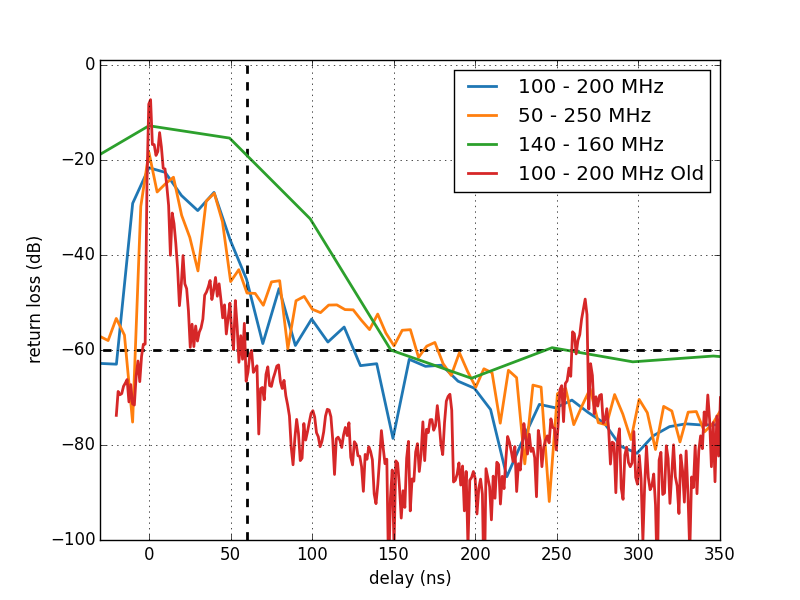
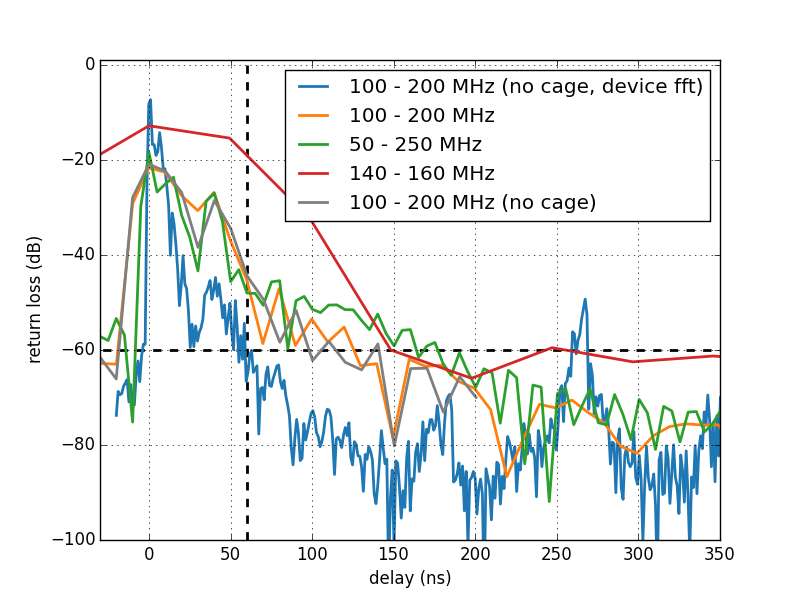
update to delay 3 plot adding in Daisy's measurements from
last summer with both device and in house fft.

diff --git a/plots/plot_delay3.py b/plots/plot_delay3.py
@@ -11,13 +11,21 @@ def fromcsv(filename):
     x = n.array(list(d)[18:-1], dtype=n.float)
     return x[:,0]/1e9, x[:,1]
 
-def fromcsvdaisy(filename):
+def fromcsvdaisy_time(filename):
     ''' Returns delay(ps), power(dB) '''
     print 'Reading Daisy file ', filename
     d = csv.reader(open(filename, 'r'), delimiter=',')
     x = n.array(list(d)[12:-1], dtype=n.float)
     print x
     return x[:,0]*1e-3, 20.0*n.log10(x[:,1])
+
+def fromcsvdaisy_freq(filename):
+    ''' Returns delay(ps), power(dB) '''
+    print 'Reading Daisy file ', filename
+    d = csv.reader(open(filename, 'r'), delimiter=',')
+    x = n.array(list(d)[12:-1], dtype=n.float)
+    print x
+    return x[:,0]/1e9, 20.0*n.log10(x[:,1]), x[:,2]
 
 def take_delay(db, ph, fq, window='blackman-harris'):
     '''Take reflectometry data in dB and phase to return delay transform.
@@ -42,16 +50,19 @@ colors = n.array([(31,119,180), (255,127,14), (44,160,44), (214,39,40), (127,127
 file_base = '../alldata/NC41_12'
 amp = '_DB.csv'
 phs = '_P.csv'
-dfile = 'Time/set1/TXT102.csv'
+dfile_time = 'Time/set1/TXT102.csv'
+dfile_freq= 'Freq/set1/TXT101.csv'
 fq, amps = fromcsv(file_base + amp)
 fq, phs= fromcsv(file_base + phs)
-dns, ddb = fromcsvdaisy(dfile)
+dns, ddb = fromcsvdaisy_time(dfile_time)
+dfreq, dfreqdb, dphs = fromcsvdaisy_freq(dfile_freq)
 
 valids = {
           '50 - 250 MHz'  : n.where(n.logical_and(fq>.05 ,fq<.25)), 
           '100 - 200 MHz' : n.where(n.logical_and(fq>.1 ,fq<.2)), 
           '140 - 160 MHz' : n.where(n.logical_and(fq>.140 ,fq<.160)),
-          '100 - 200 MHz Old' : None
+          '100 - 200 MHz (no cage, device fft)' : None,
+          '100 - 200 MHz (no cage)' : n.where(n.logical_and(dfreq>.1, dfreq<.2))
 #          'second' : n.where(n.logical_and(fq>.250 ,fq<.500))
          }
 
@@ -72,9 +83,12 @@ valids = {
 
 for i,v in enumerate(valids.keys()):
     print v
-    if v == '100 - 200 MHz Old':
-        p.plot(dns, ddb, linewidth=2, label='%s'%v, color=colors[i])    
+    if v == '100 - 200 MHz (no cage, device fft)':
+        p.plot(dns, ddb, linewidth=2, label='%s'%v, color=colors[i])
         print dns,ddb
+    elif v == '100 - 200 MHz (no cage)':
+        dw, d, tau = take_delay(dfreqdb[valids[v]], dphs[valids[v]], dfreq[valids[v]], window='hamming')
+        p.plot(tau, 10*n.log10(n.abs(dw)**2), linewidth=2, label='%s'%v, color=colors[i])
     else:
         dw, d, tau = take_delay(amps[valids[v]], phs[valids[v]], fq[valids[v]], window='hamming')
         p.plot(tau, 10*n.log10(n.abs(dw)**2), linewidth=2, label='%s'%v, color=colors[i])
